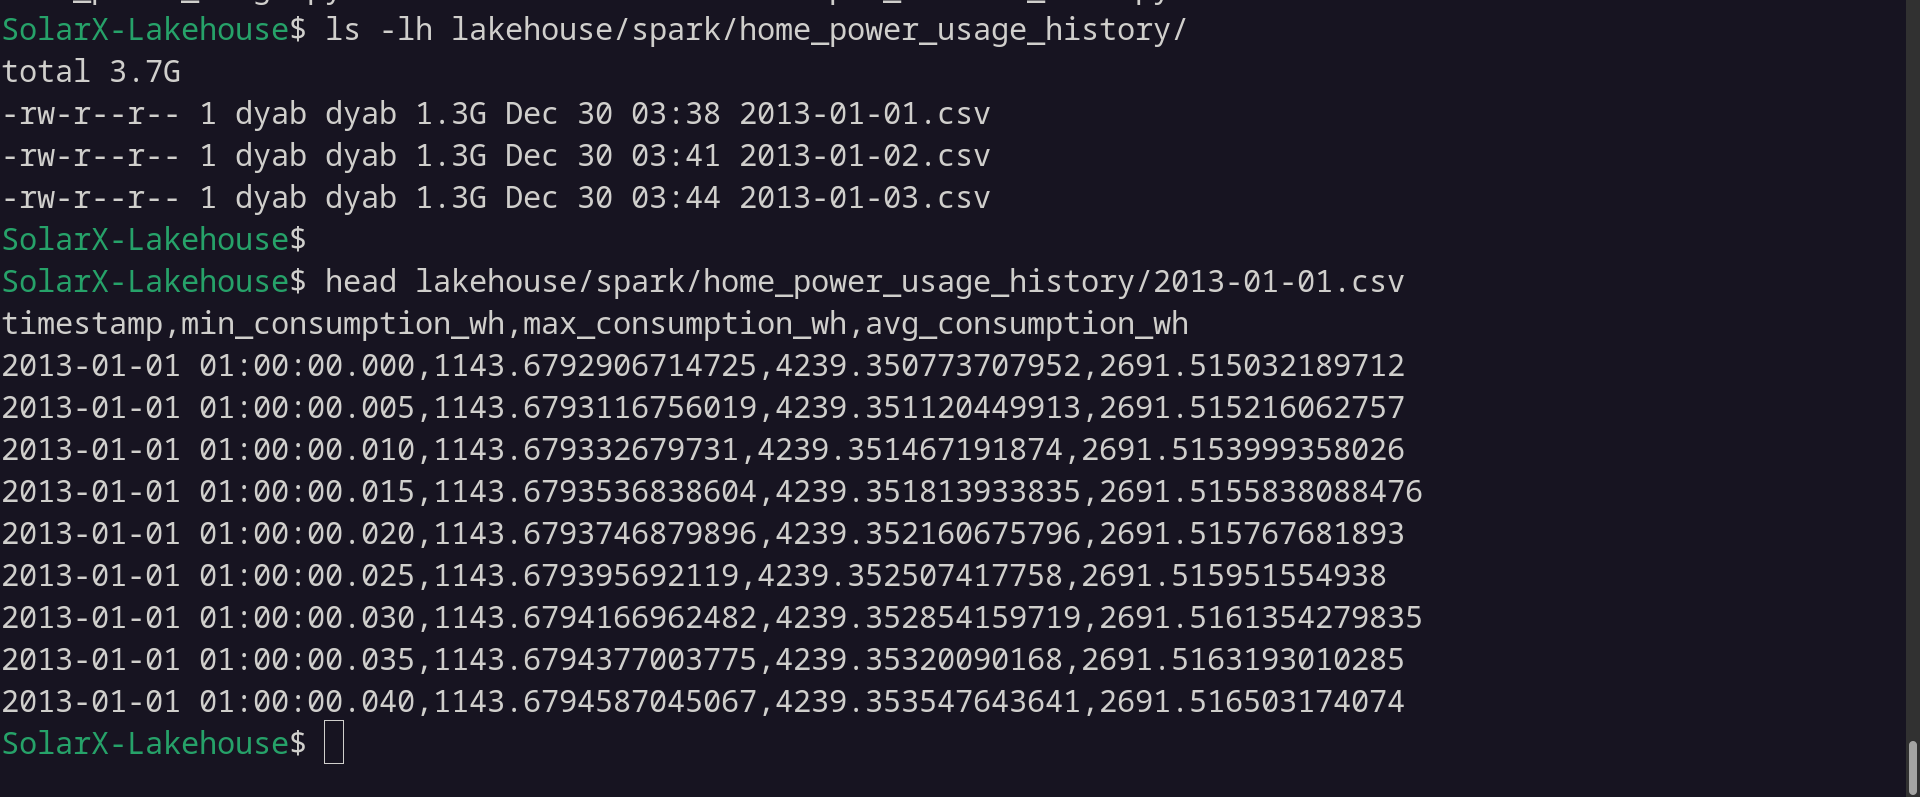
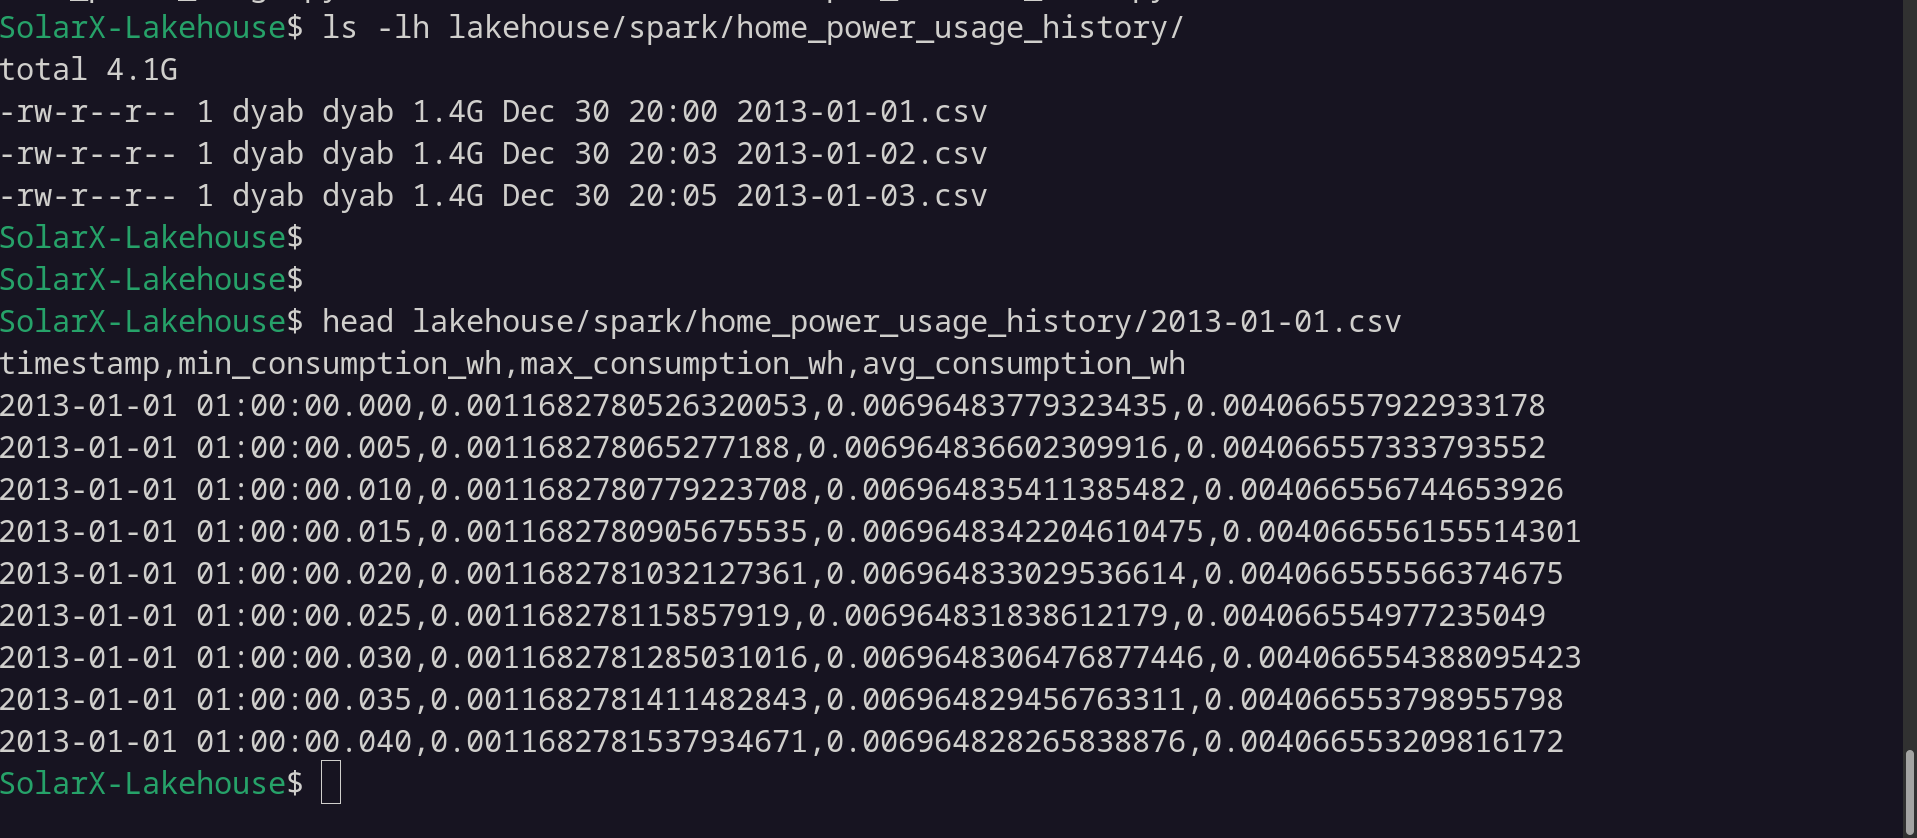
update readme

Changed region(s): [[0.0, 0.0, 0.831, 0.9636], [0.9849, 0.9034, 1.0, 0.9335]]

diff --git a/README.md b/README.md
@@ -72,7 +72,7 @@ Above is a sample of to get an idea, `consumption` have a minimum and maximum va
 
 <br/>
 
-The data is also resampled to `5ms` like the weather data for the same reason and it's size this time is around `1.3GB`
+The data is also resampled to `5ms` like the weather data for the same reason and it's size this time is around `1.4GB`
 
 The process happens using the `home_power_usage.py` script which takes the same above weather csv file an argument and write the home usage down to `lakehouse/spark/home_power_usage_history` directory, the weather csv file purpose is just to extract the corresponding date.
 
@@ -81,6 +81,7 @@ python3 home_power_usage.py weather_history_splitted/2013-01-03.csv
 ```
 
 A sample of the resampled `2013-01-01.csv` data and files sizes
+
 ![](images/home_data.png)
 
 <br/>
@@ -308,7 +309,7 @@ So going forward will use `iceberg` for that, iceberg also have a nice api that 
 <br/>
 
 # Lakehouse Raw Records 
-##  Solar tables
+##  Solar Tables
 
 You can find the code in the `notebooks/solar_panel_iceberg_tables.ipynb` which will be a `.py` file later with the others to run the pipeline with `Airflow`.
 
@@ -336,10 +337,16 @@ CREATE TABLE SolarX_Raw_Transactions.solar_panel_readings(
     generated_power_amount FLOAT NOT NULL
 )
 USING iceberg
-PARTITIONED BY (MONTH(timestamp), 15_minutes_interval);
+PARTITIONED BY (DAY(timestamp), 15_minutes_interval);
 ```
 
-We are partitioning the raw readings on both the `month` and the `15_minutes_interval`, and the power is calculated same as before, the only difference is that now we have 3 solar panels and instead of saving the data into `csvs`, we are saving them with `iceberg`, and iceberg under the hod saves them in `parquet` format. 
+We are partitioning the raw readings on both the `day` and the `15_minutes_interval`, and the power is calculated same as before, the only difference is that now we have 3 solar panels and instead of saving the data into `csvs`, we are saving them with `iceberg`, and iceberg under the hod saves them in `parquet` format. 
+
+<br/>
+
+We are partitioning the raw readings on both the `day` and the `15_minutes_interval`, that would be a lot of partitions you might say in the long run, we would only keep the last 7 days of raw data in our lakehouse, because after this one week period we generally won't be interested in the high frequency data and also to minimize space cost.
+
+Instead we will save the past data in the `15_minutes_interval` frequency in another table in the warehouse, and this table is what will be used in the analytics.
 
 <br/>
 
@@ -376,3 +383,53 @@ Same structure will apply if we were using a cloud storage based service like am
 <br/>
 
 Also and interesting observation, the csv files of one solar panel data of one day was around `600MB` in size, now the 3 solar panels data combined is only around `171.6MB` in size, this nice reduction in size comes from the fact that iceberg saves the data in `parquet` format and this format uses `run length encoding` which can reduce the size of the data if the low cardinality data are grouped together, and that is the case in our data, the average sun hours is something like `11` hours a day, and the rest is just `zero`, so the solar power generated is zero in the rest, and we're partitioning in way that also groups those zeros together to achieve this reduction in size.
+
+
+<br/>
+<br/>
+
+##  Home Power Usage Tables
+You can find the code in the `notebooks/home_power_load_iceberg_tables.ipynb` which will be a `.py` file later with the others to run the pipeline with `Airflow`.
+
+Only one table is used here which has the power usage related data
+```sql
+%%sql
+
+CREATE TABLE SolarX_Raw_Transactions.home_power_readings(
+    timestamp               TIMESTAMP NOT NULL,
+    15_minutes_interval     SMALLINT  NOT NULL,
+    min_consumption_wh      FLOAT     NOT NULL,
+    max_consumption_wh      FLOAT     NOT NULL
+)
+USING iceberg
+PARTITIONED BY (DAY(timestamp), 15_minutes_interval);
+```
+
+We are partitioning the raw readings on both the `day` and the `15_minutes_interval`, that would be a lot of partitions you might say in the long run, we would only keep the last 7 days of raw data in our lakehouse, because after this one week period we generally won't be interested in the high frequency data and also to minimize space cost.
+
+Instead we will save the past data in the 15_minutes_interval frequency in another table in the warehouse, and this table is what will be used in the analytics.
+
+![](images/minio_home.png)
+
+Also the 3 days worth of data size combined is only `350MB` compared to one day of data in the source making `1.4GB`.
+
+<br/>
+
+Some quick analysis
+```sql
+%%sql
+
+SELECT 
+    DAY(timestamp) as day, 
+    SUM(min_consumption_wh)/1000 as min_consumption_kwh, 
+    SUM(max_consumption_wh)/1000 as max_consumption_kwh
+FROM SolarX_Raw_Transactions.home_power_readings
+GROUP BY day
+
+|day|min_consumption_kwh|max_consumption_kwh|
+|-|------------------|------------------|
+|1|31.030535656945837|126.82835777154983|
+|2|33.01199622871832 |121.20579759246623|
+|3|31.291361060320924|121.99561212848174|
+```
+
